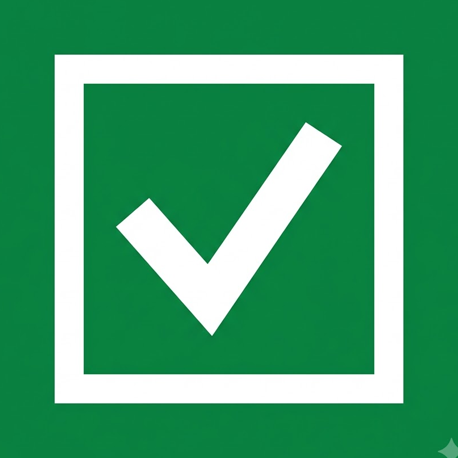
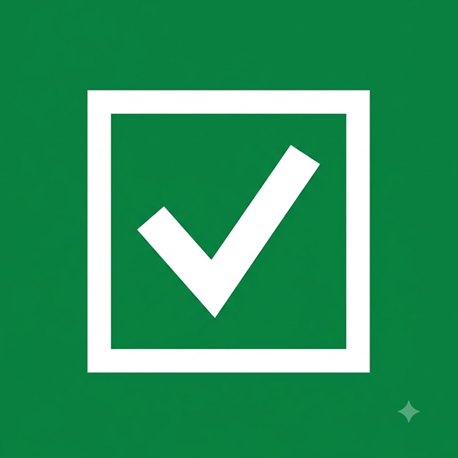
Add files via upload

diff --git a/index.html b/index.html
@@ -3,13 +3,6 @@
 <head>
     <meta charset="UTF-8">
     <meta name="viewport" content="width=device-width, initial-scale=1.0">
-    <link rel="apple-touch-icon" href="lily-tracker.png">
-    <!-- Nom personnalisé sous l'icône de l'écran d'accueil -->
-<meta name="apple-mobile-web-app-title" content="LilyPlanner">
-
-<!-- Masquer la barre de navigateur Safari pour un effet "Application native" -->
-<meta name="apple-mobile-web-app-capable" content="yes">
-<meta name="apple-mobile-web-app-status-bar-style" content="default">
     <title>Mon Organiseur Personnel 2026</title>
     <!-- Tailwind CSS for styling -->
     <script src="https://cdn.jsdelivr.net/npm/@tailwindcss/browser@4"></script>
@@ -66,49 +59,64 @@
 
     <!-- Header & Navigation -->
     <header class="bg-white border-b border-slate-100 sticky top-0 z-50 shadow-sm">
-        <div class="max-w-7xl mx-auto px-4 sm:px-6 lg:px-8 flex flex-col sm:flex-row items-center justify-between py-4 gap-4">
-            <div class="flex items-center gap-3">
-                <div class="p-2.5 bg-indigo-50 rounded-xl text-indigo-500">
-                    <svg xmlns="http://www.w3.org/2000/svg" class="h-6 w-6" fill="none" viewBox="0 0 24 24" stroke="currentColor">
-                        <path stroke-linecap="round" stroke-linejoin="round" stroke-width="2" d="M9 5H7a2 2 0 00-2 2v12a2 2 0 002 2h10a2 2 0 002-2V7a2 2 0 00-2-2h-2M9 5a2 2 0 002 2h2a2 2 0 002-2M9 5a2 2 0 012-2h2a2 2 0 012 2m-3 7h3m-3 4h3m-6-4h.01M9 16h.01" />
-                    </svg>
+        <div class="max-w-7xl mx-auto px-4 sm:px-6 lg:px-8 py-4">
+            <div class="flex items-center justify-between">
+                <!-- Logo & Titre -->
+                <div class="flex items-center gap-3">
+                    <div class="p-2.5 bg-indigo-50 rounded-xl text-indigo-500 shrink-0">
+                        <svg xmlns="http://www.w3.org/2000/svg" class="h-6 w-6" fill="none" viewBox="0 0 24 24" stroke="currentColor">
+                            <path stroke-linecap="round" stroke-linejoin="round" stroke-width="2" d="M9 5H7a2 2 0 00-2 2v12a2 2 0 002 2h10a2 2 0 002-2V7a2 2 0 00-2-2h-2M9 5a2 2 0 002 2h2a2 2 0 002-2M9 5a2 2 0 012-2h2a2 2 0 012 2m-3 7h3m-3 4h3m-6-4h.01M9 16h.01" />
+                        </svg>
+                    </div>
+                    <div>
+                        <h1 class="text-xl font-bold text-slate-800">LilyPlanner <span class="text-indigo-400 font-medium">2026</span></h1>
+                        <p class="text-xs text-slate-400 hidden sm:block">Un peu d'organisation, ça peut pas faire de mal :)</p>
+                    </div>
                 </div>
-                <div>
-                    <h1 class="text-xl font-bold text-slate-800">LilyPlanner <span class="text-indigo-400 font-medium">2026</span></h1>
-                    <p class="text-xs text-slate-400">Un peu d'organisation, ça peut pas faire de mal :)</p>
-                </div>
-            </div>
-            
-            <div class="flex items-center gap-4">
-                <nav class="flex bg-slate-100 p-1 rounded-xl">
-                    <button onclick="switchTab('habit-tracker')" id="btn-habit-tracker" class="tab-btn px-4 py-2 text-sm font-medium rounded-lg transition-all duration-200 bg-white text-indigo-600 shadow-sm">
-                        🌱 Habit Tracker
-                    </button>
-                    <button onclick="switchTab('todo')" id="btn-todo" class="tab-btn px-4 py-2 text-sm font-medium rounded-lg transition-all duration-200 text-slate-600 hover:text-slate-900">
-                        🎯 Todo List
-                    </button>
-                    <button onclick="switchTab('plan-2026')" id="btn-plan-2026" class="tab-btn px-4 py-2 text-sm font-medium rounded-lg transition-all duration-200 text-slate-600 hover:text-slate-900">
-                        📅 Plan 2026
-                    </button>
-                </nav>
 
-                <!-- Zone d'authentification Google -->
-                <div id="auth-container">
-                    <button id="btn-login" class="flex items-center gap-2 bg-slate-800 hover:bg-slate-900 text-white font-medium px-4 py-2 rounded-xl text-sm transition-all shadow-sm">
-                        <svg class="w-4 h-4" viewBox="0 0 24 24">
+                <!-- Zone d'authentification Google (Repositionnée en haut à droite) -->
+                <div id="auth-container" class="relative">
+                    <button id="btn-login" class="flex items-center gap-2 bg-slate-800 hover:bg-slate-900 text-white font-medium px-3.5 py-2 rounded-xl text-sm transition-all shadow-sm">
+                        <svg class="w-4 h-4 shrink-0" viewBox="0 0 24 24">
                             <path fill="#EA4335" d="M12 5c1.6 0 3 .6 4.1 1.6l3.1-3.1C17.3 1.7 14.8 1 12 1 7.5 1 3.7 3.6 1.9 7.3l3.7 2.9C6.5 7.2 9 5 12 5z"/>
                             <path fill="#4285F4" d="M23.5 12.3c0-.8-.1-1.6-.2-2.3H12v4.5h6.5c-.3 1.5-1.1 2.8-2.4 3.7l3.7 2.9c2.2-2 3.7-5 3.7-8.8z"/>
                             <path fill="#FBBC05" d="M5.6 14.8c-.2-.7-.4-1.5-.4-2.3s.2-1.6.4-2.3L1.9 7.3C.7 9.7 0 10.8 0 12s.7 2.3 1.9 4.7l3.7-2.9z"/>
                             <path fill="#34A853" d="M12 23c3.2 0 6-1.1 8-3l-3.7-2.9c-1.1.7-2.5 1.2-4.3 1.2-3 0-5.5-2.2-6.4-5.2L1.9 16C3.7 19.7 7.5 23 12 23z"/>
                         </svg>
-                        <span>Se connecter</span>
+                        <span class="hidden sm:inline">Se connecter</span>
                     </button>
-                    <div id="user-info" class="hidden flex items-center gap-3">
-                        <img id="user-avatar" class="w-8 h-8 rounded-full border border-indigo-200" src="" alt="Avatar">
-                        <button id="btn-logout" class="text-xs text-slate-500 hover:text-rose-500 underline font-medium">Déconnexion</button>
+
+                    <!-- Avatar / Menu utilisateur -->
+                    <div id="user-info" class="hidden relative">
+                        <button id="btn-avatar-menu" onclick="toggleUserDropdown()" class="flex items-center focus:outline-none">
+                            <img id="user-avatar" class="w-9 h-9 rounded-full border-2 border-indigo-200 hover:border-indigo-400 transition-all cursor-pointer shadow-xs" src="" alt="Avatar">
+                        </button>
+                        
+                        <!-- Dropdown de déconnexion -->
+                        <div id="user-dropdown" class="hidden absolute right-0 mt-2 w-48 bg-white rounded-xl shadow-lg border border-slate-100 py-1 z-50">
+                            <button id="btn-logout" class="w-full text-left px-4 py-2.5 text-xs text-rose-600 hover:bg-rose-50 font-medium transition-colors flex items-center gap-2">
+                                <svg xmlns="http://www.w3.org/2000/svg" class="h-4 w-4" fill="none" viewBox="0 0 24 24" stroke="currentColor">
+                                    <path stroke-linecap="round" stroke-linejoin="round" stroke-width="2" d="M17 16l4-4m0 0l-4-4m4 4H7m6 4v1a3 3 0 01-3 3H6a3 3 0 01-3-3V7a3 3 0 013-3h4a3 3 0 013 3v1" />
+                                </svg>
+                                Se déconnecter
+                            </button>
+                        </div>
                     </div>
                 </div>
             </div>
+
+            <!-- Menu de Navigation (Pleine largeur sur mobile) -->
+            <nav class="flex bg-slate-100 p-1 rounded-xl mt-4 w-full justify-between sm:justify-start">
+                <button onclick="switchTab('habit-tracker')" id="btn-habit-tracker" class="tab-btn flex-1 sm:flex-initial px-3 sm:px-4 py-2 text-xs sm:text-sm font-medium rounded-lg transition-all duration-200 bg-white text-indigo-600 shadow-sm text-center">
+                    🌱 Habit Tracker
+                </button>
+                <button onclick="switchTab('todo')" id="btn-todo" class="tab-btn flex-1 sm:flex-initial px-3 sm:px-4 py-2 text-xs sm:text-sm font-medium rounded-lg transition-all duration-200 text-slate-600 hover:text-slate-900 text-center">
+                    🎯 Todo List
+                </button>
+                <button onclick="switchTab('plan-2026')" id="btn-plan-2026" class="tab-btn flex-1 sm:flex-initial px-3 sm:px-4 py-2 text-xs sm:text-sm font-medium rounded-lg transition-all duration-200 text-slate-600 hover:text-slate-900 text-center">
+                    📅 Plan 2026
+                </button>
+            </nav>
         </div>
     </header>
 
@@ -302,6 +310,23 @@
         <p>© 2026 Mon Organiseur Pastel Personnel — Synchronisé Cloud</p>
     </footer>
 
+    <!-- LOGIQUE DROPDOWN UTILISATEUR -->
+    <script>
+        function toggleUserDropdown() {
+            const dropdown = document.getElementById('user-dropdown');
+            dropdown.classList.toggle('hidden');
+        }
+
+        // Fermer le dropdown si on clique en dehors
+        window.addEventListener('click', function(e) {
+            const avatarBtn = document.getElementById('btn-avatar-menu');
+            const dropdown = document.getElementById('user-dropdown');
+            if (avatarBtn && dropdown && !avatarBtn.contains(e.target) && !dropdown.contains(e.target)) {
+                dropdown.classList.add('hidden');
+            }
+        });
+    </script>
+
     <!-- FIREBASE AUTH & FIRESTORE LOGIC -->
     <script type="module">
         import { initializeApp } from "https://www.gstatic.com/firebasejs/10.8.0/firebase-app.js";
@@ -335,6 +360,9 @@
 
         // Déconnexion
         const logoutGoogle = () => {
+            const dropdown = document.getElementById('user-dropdown');
+            if (dropdown) dropdown.classList.add('hidden');
+            
             signOut(auth).then(() => {
                 if (unsubscribeSnapshot) unsubscribeSnapshot();
             }).catch(error => {
